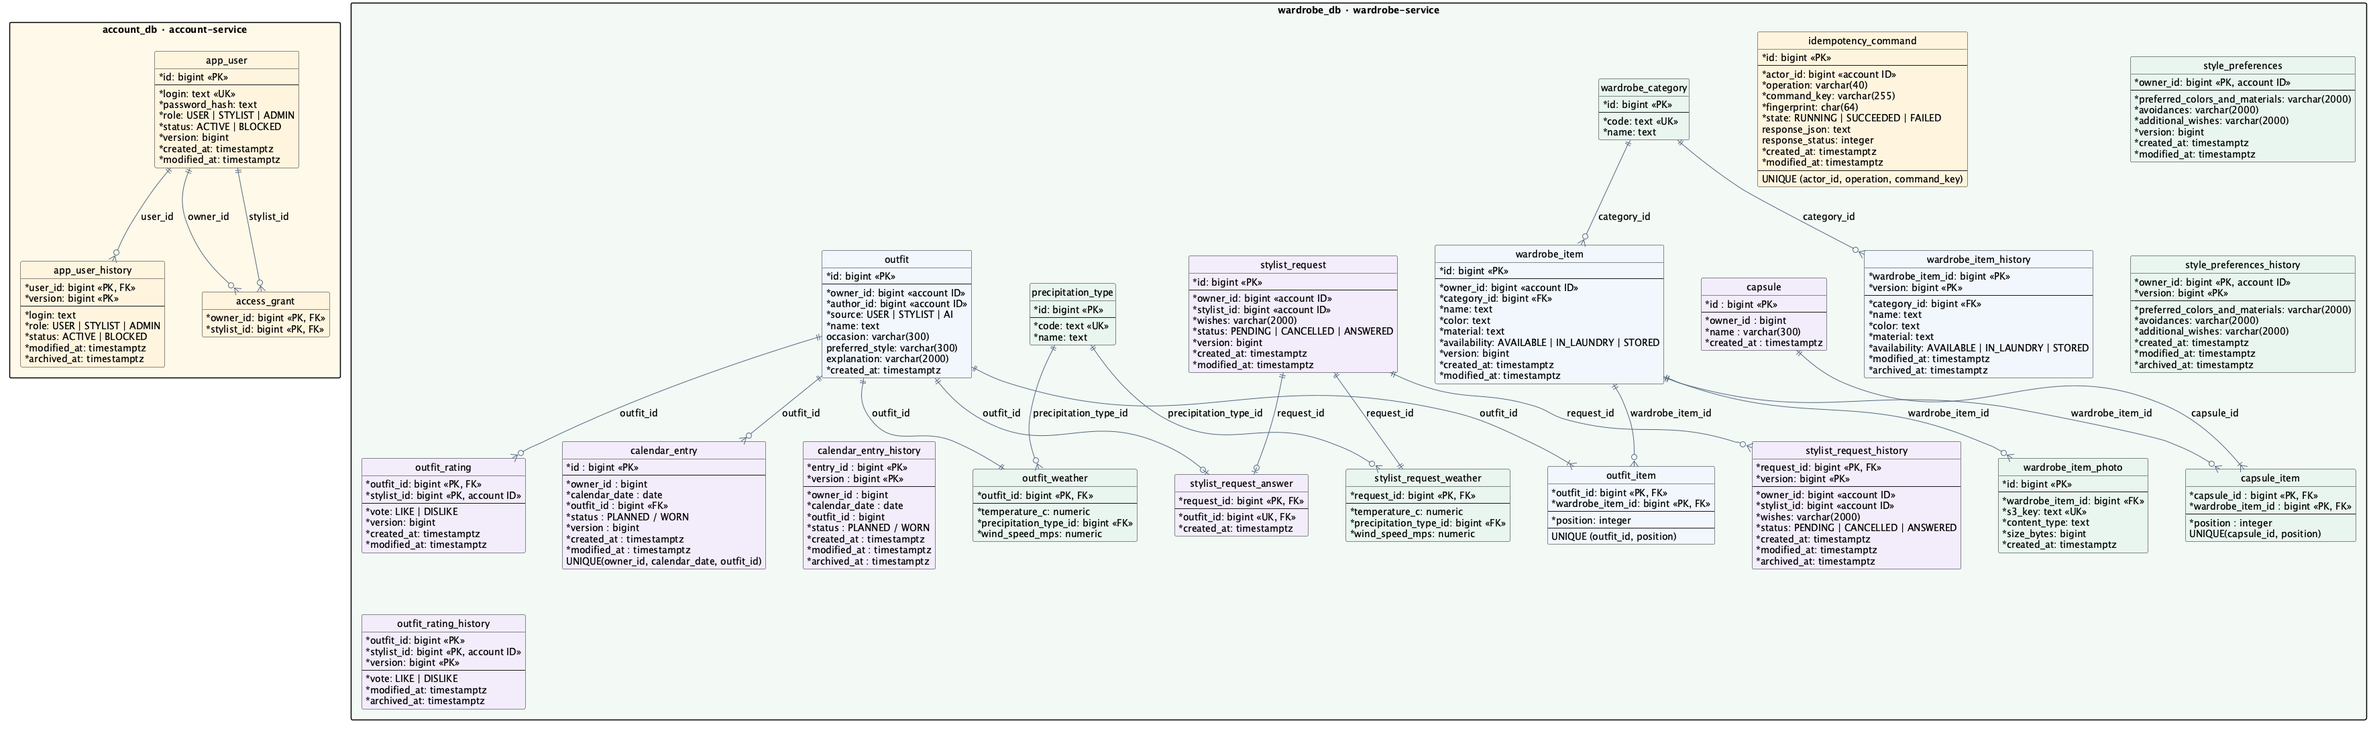
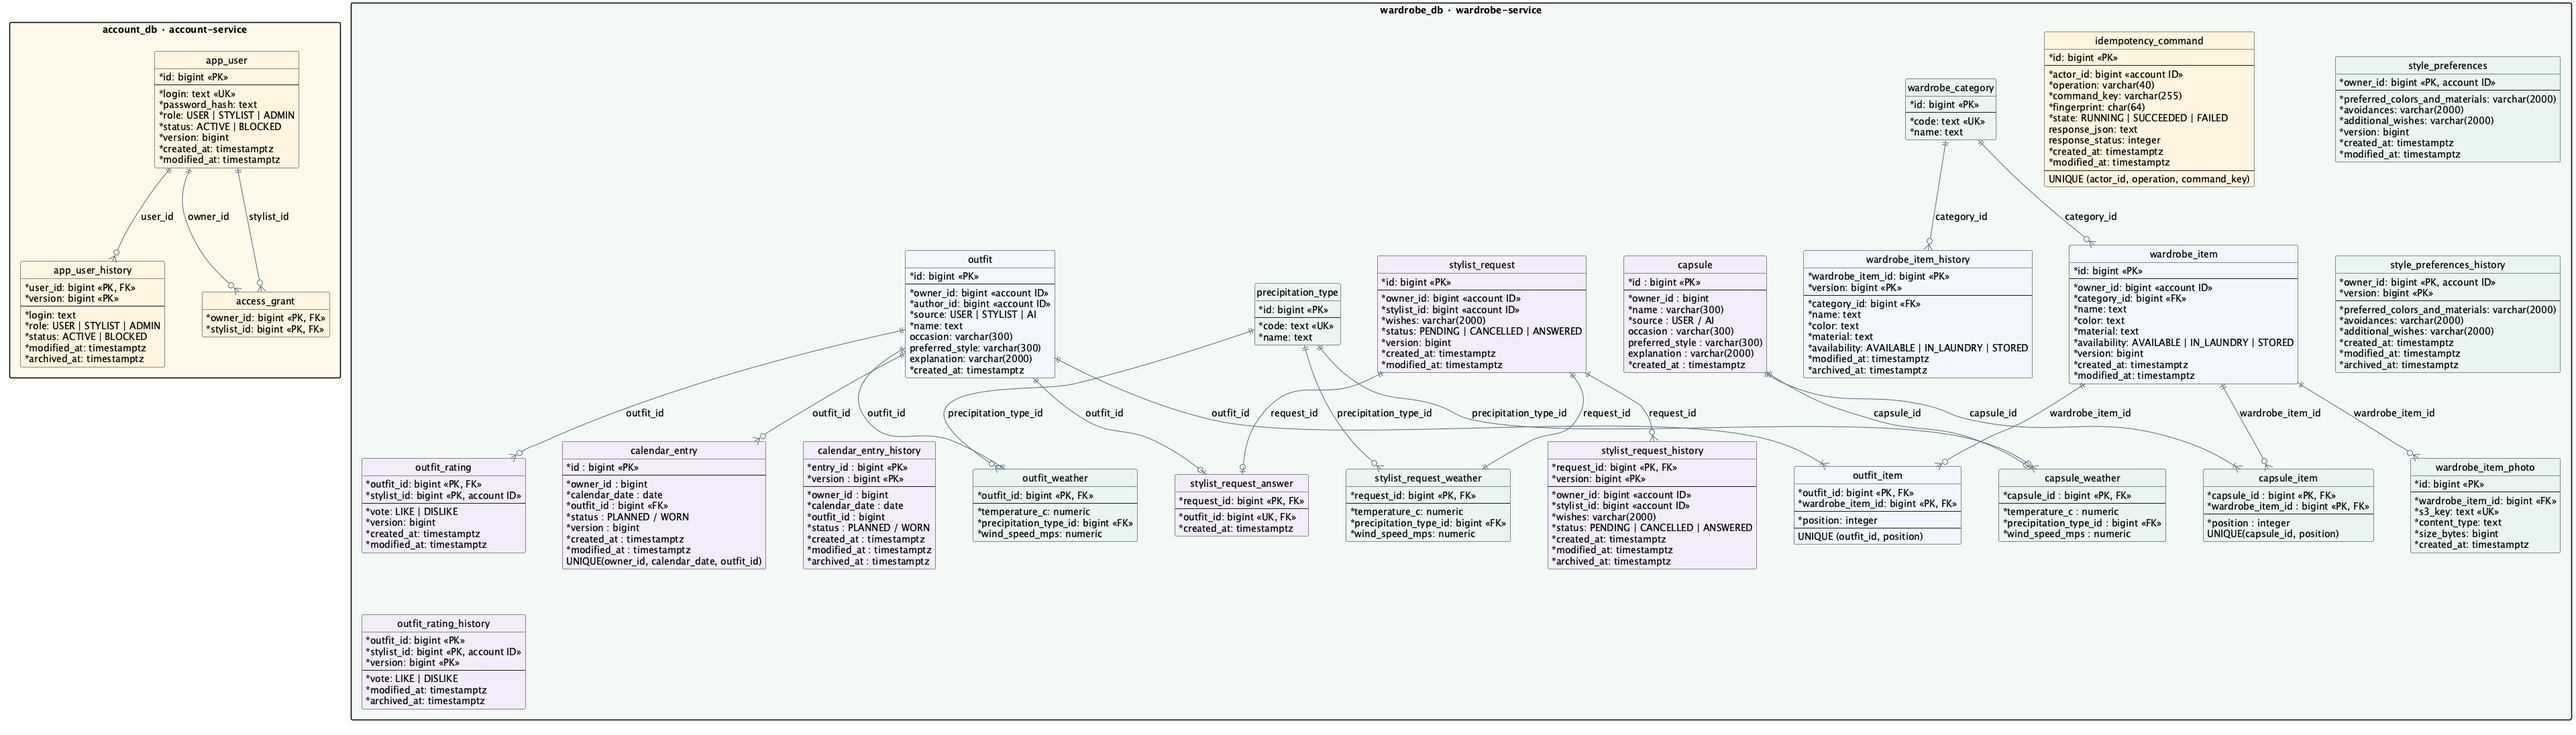
docs(capsules): describe AI creation and update data model

diff --git a/docs/lab2/contracts.md b/docs/lab2/contracts.md
@@ -16,6 +16,7 @@
 | GET, POST | /api/me/calendar | wardrobe |
 | GET, PUT, DELETE | /api/me/calendar/{id} | wardrobe |
 | GET, POST | /api/me/capsules | wardrobe |
+| POST | /api/me/capsules/ai | wardrobe |
 | GET, DELETE | /api/me/capsules/{id} | wardrobe |
 | GET | /api/me/stylist-requests/{id} | wardrobe |
 | PUT | /api/me/stylist-requests/{id}/cancellation | wardrobe |
@@ -87,13 +88,32 @@ USER создаёт запрос выбранному стилисту: `stylist
 
 Ручная капсула — неизменяемый набор 1–20 разных собственных вещей USER. POST принимает
 `name` (непустое, до 300 символов) и `itemIds` в нужном порядке; погода и фотографии не нужны.
-Вещи в стирке или убранные разрешены. Ответ: id, ownerId, name, itemIds, createdAt из БД;
+Вещи в стирке или убранные разрешены. Ответ: id, ownerId, name, itemIds, createdAt из БД, source=USER;
 статус 201 и Location. Необязательный Idempotency-Key защищает создание и возвращает прежний
 результат даже после удаления капсулы. GET списка: page/size 0/50, до 50, ID по убыванию,
-X-Total-Count. Состав загружается пакетом для всей страницы.
+X-Total-Count. Состав и погода загружаются пакетами для всей страницы. Старый сохранённый ответ
+Idempotency-Key без новых полей повторяется в прежнем виде.
+
+`POST /api/me/capsules/ai` создаёт неизменяемую AI-капсулу для подключённого personal owner-login
+с ролью USER. Тело: `name` (непустое, до 300), обязательная `weather` как у образа, необязательные
+`candidateItemIds`, `occasion` и `preferredStyle` (до 300 каждый). Без списка или с null выбирается
+весь доступный гардероб с фото; после фильтрации требуется 1–20 кандидатов, без усечения.
+Явные чужие/отсутствующие ID дают 404 до фильтрации. Подбор получает снимок предпочтений владельца.
+Ответ 201 с Location `/api/me/capsules/{id}` содержит `source=AI`, погоду, контекст и обязательное
+непустое текстовое объяснение до 2000 символов. Отсутствующее или неверное объяснение даёт 502
+до записи. Ручные капсулы не содержат погоды и AI-контекста.
+
+Подбор капсулы, образа и замена вещей используют один слот от подготовки до завершения сохранения,
+без очереди. S3 и AI вызываются вне транзакции. Перед сохранением проверяются все кандидаты,
+их доступность и использованные фотографии. Изменение снимка даёт 409; отказ AI — 422,
+неверный ответ — 502, занятый слот или недоступность account/S3/AI — 503, таймаут — 504.
+Тела AI-ошибок пустые; ошибки DTO и ключа имеют прежний JSON-формат. Капсула, состав, погода
+и успешный ответ ключа сохраняются атомарно. `Idempotency-Key` имеет отдельную операцию
+CREATE_AI_CAPSULE; доступ проверяется перед replay, успешный replay не вызывает AI даже после
+удаления, неуспешный ключ повторно не исполняется.
 
 GET и DELETE конкретной капсулы доступны только владельцу. DELETE возвращает 204 и удаляет
-капсулу с её составом; вещи остаются. Пока вещь входит в капсулу, удалить её нельзя (409).
+капсулу с её составом и погодой; вещи остаются. Пока вещь входит в капсулу, удалить её нельзя (409).
 Изменение характеристик или доступности вещи не меняет состав капсулы. Чтобы изменить набор,
 нужно создать новую капсулу; UPDATE и история изменяемой капсулы не предусмотрены.
 Неверные название/ID/число вещей — 400, другая роль — 403, чужая или отсутствующая капсула/вещь —
@@ -229,14 +249,14 @@ ID имеют тип Long. Непарсируемый параметр — 400; 
 включая пустой список, даёт 400. Результат — `{"itemIds":[12,34],"explanation":"..."}`:
 1–20 разных ID из кандидатов и непустое объяснение до 2000 символов. Это набор для нескольких
 сочетаний. Отказ или пустой выбор даёт 422 с кодом `no_capsule`; остальные коды совпадают с
-подбором образа. Маршрут также не доступен через Gateway. Сохранение AI-капсулы в wardrobe
-и её публичный маршрут добавляются отдельно; recommendation сам ничего не сохраняет.
+подбором образа. Маршрут также не доступен через Gateway. Wardrobe сохраняет результат через
+публичный POST /api/me/capsules/ai; recommendation сам ничего не сохраняет.
 
 Клиент wardrobe вызывает этот маршрут методом `RecommendationClient.selectCapsule` с общими
 `ItemSelectionRequest`/`ItemSelectionResponse`. Ошибка `no_capsule` принимается только для капсулы,
 `no_outfit` — только для образа; чужой код даёт 502 без повторного подбора. Общий decoder пока
-допускает отсутствие `explanation` ради старого ответа подбора образа. Будущий сценарий сохранения
-AI-капсулы обязан отдельно потребовать объяснение до записи; nullable DTO не отменяет это требование.
+допускает отсутствие `explanation` ради старого ответа подбора образа. Сценарий сохранения
+AI-капсулы отдельно требует объяснение до записи; nullable DTO не отменяет это требование.
 
 Оба метода имеют отдельные Circuit Breaker:
 `RecommendationClientselectItemSelectionRequest` и
